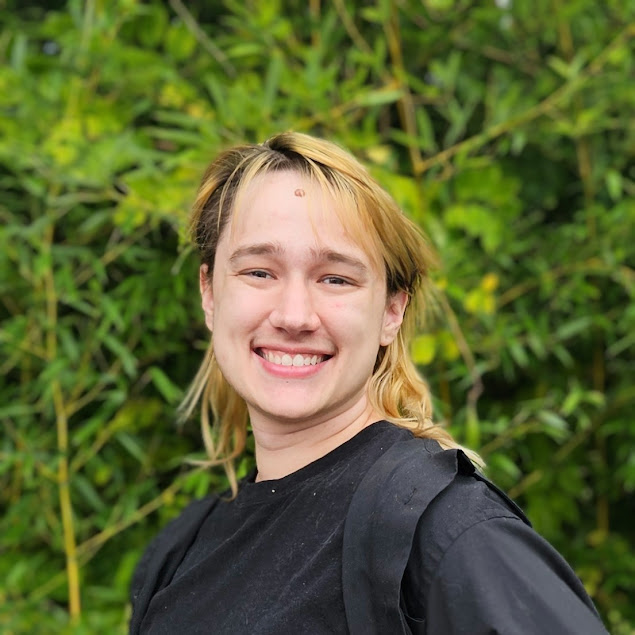
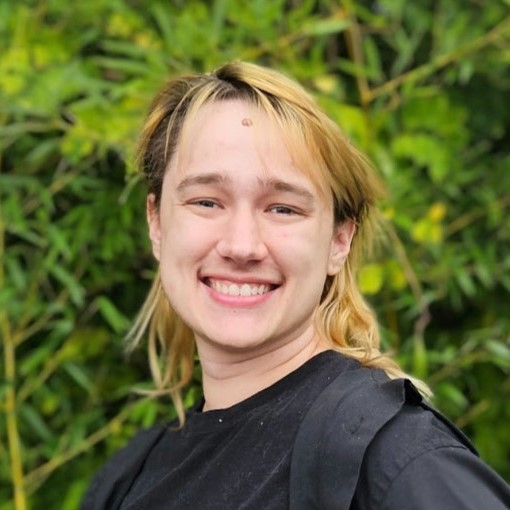
removed sidebar, restyled hero

diff --git a/portfolio-ui/src/components/index/hero.css b/portfolio-ui/src/components/index/hero.css
@@ -2,40 +2,25 @@
     width: 100%;
     justify-content: center;
     display: flex;
-    flex-direction: row;
+    flex-flow: row wrap;
+    justify-content: space-between;
 }
 
 .hero-left {
-    margin: 38px;
     color: #0e1d31;
 }
 
 .hero-right {
-    margin: 38px 38px 38px 0;
 }
-
-.hero-name {
-    font-family: "Kodchasan", sans-serif;
-    font-weight: 700;
-    font-size: 112px;
-    line-height: .8;
-    margin: 0;
-    text-align: center;
-}
-.hero-name:hover {
-    cursor: default;
-}
-
 
 .hero-title {
-    margin: 16px 0 0;
-    font-size: 32px;
-    font-weight: normal;
+    text-align: left;
     text-transform: uppercase;
+    font-size: 24px;
+    margin: 8px 0;
 }
 
 #profile {
-    height: 235px;
-    width: 235px;
-    border-radius: 150px;
+    width: 200px;
+    border-radius: 50%;
 }

diff --git a/portfolio-ui/src/components/about/Bio.jsx b/portfolio-ui/src/components/about/Bio.jsx
@@ -4,7 +4,7 @@ export default function Bio() {
   return (
     <>
     <div className='bio'>
-          <h3>I'm a motivated and curious developer with a history in customer service. </h3>
+          <h3>I'm a motivated and curious programmer with a history in customer service. </h3>
           <p>My <span className='bold'>passion </span>for coding began when I wanted to create my own website, and
             became frustrated with the constraints of no-code builders. Programming ignited my desire to learn 
             and solve problems. In 2024, I graduated from <span className='bold'>LaunchCode</span>, where I studied 

diff --git a/portfolio-ui/src/components/index/Hero.jsx b/portfolio-ui/src/components/index/Hero.jsx
@@ -7,8 +7,9 @@ export default function Hero() {
   return (
     <div className='hero'>
       <div className='hero-left'>
-        <h1 className='hero-name'>MADS <br /> BOHN</h1>
+        <h1 className='hero-name'>MADS BOHN</h1>
         <h3 className='hero-title'>Full-Stack Developer</h3>
+        <SocialIcons />
       </div>
       <div className='hero-right'>
         <img src='src/assets/profile.jpg' id='profile'></img>

diff --git a/portfolio-ui/src/index.css b/portfolio-ui/src/index.css
@@ -39,7 +39,8 @@ h1 {
   line-height: 1.1;
   text-transform: uppercase;
   text-align: left;
-  margin: 120px 0 24px;
+  margin: 0;
+  text-wrap: nowrap;
 }
 
 h2 {
@@ -52,7 +53,8 @@ h2 {
 }
 
 h3 {
-  margin: 32px 0;
+  margin: 72px 0 24px;
+  text-align: center;
 }
 
 li {
@@ -94,7 +96,7 @@ button:focus-visible {
 }
 
 .page {
-  margin: 0 13% 0 36%;
+  margin: 5% 22%;
 }
 
 .resume-button {

diff --git a/portfolio-ui/src/components/experience/Experience.jsx b/portfolio-ui/src/components/experience/Experience.jsx
@@ -20,6 +20,7 @@ let experienceArray = [
 export default function Experience() {
   return (
     <div>
+        <h2>Experience</h2>
         <div className='experience-list'>
             {experienceArray.map(experience => (
                 <div className='project' key={experience.title}>

diff --git a/portfolio-ui/src/components/projects/ProjectList.jsx b/portfolio-ui/src/components/projects/ProjectList.jsx
@@ -22,6 +22,7 @@ let projectsArray = [
 export default function ProjectList() {
   return (
     <div>
+        <h2>Projects</h2>
         <div className='project-list'>
            {projectsArray.map(project => (
             <div className='project' key={project.title}>

diff --git a/portfolio-ui/src/pages/index.jsx b/portfolio-ui/src/pages/index.jsx
@@ -8,7 +8,6 @@ import Experience from '../components/experience/Experience'
 export default function Index() {
   return (
     <div>
-      <SideBar />
       <div className='page'>
         <Hero />
         <div id='about' className='section'>

diff --git a/portfolio-ui/src/components/navigation/navigation.css b/portfolio-ui/src/components/navigation/navigation.css
@@ -29,12 +29,10 @@ li a {
     margin: 8px 44px;
 }
 
-
 .socialIcons {
-    margin: 8px auto;
-    width: 151px;
+    text-align: left;
+    margin-top: 40px;
 }
-
 .socialIcons a {
     font-size: 32px;
     color:#0e1d31;
